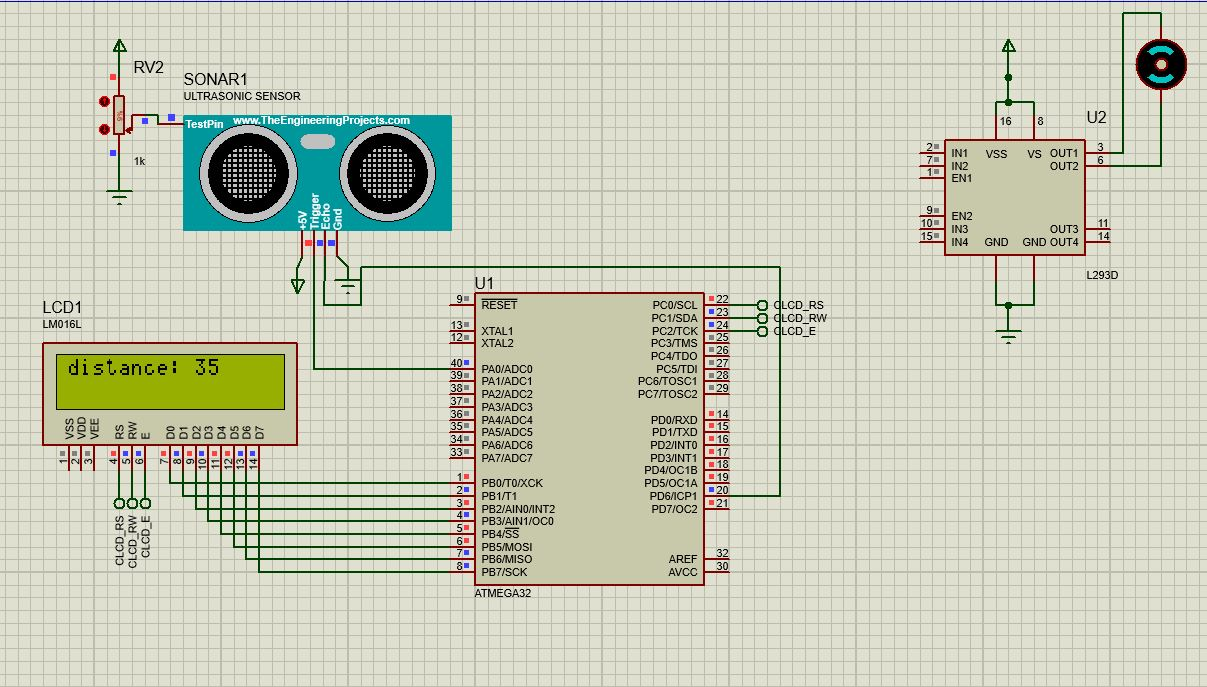
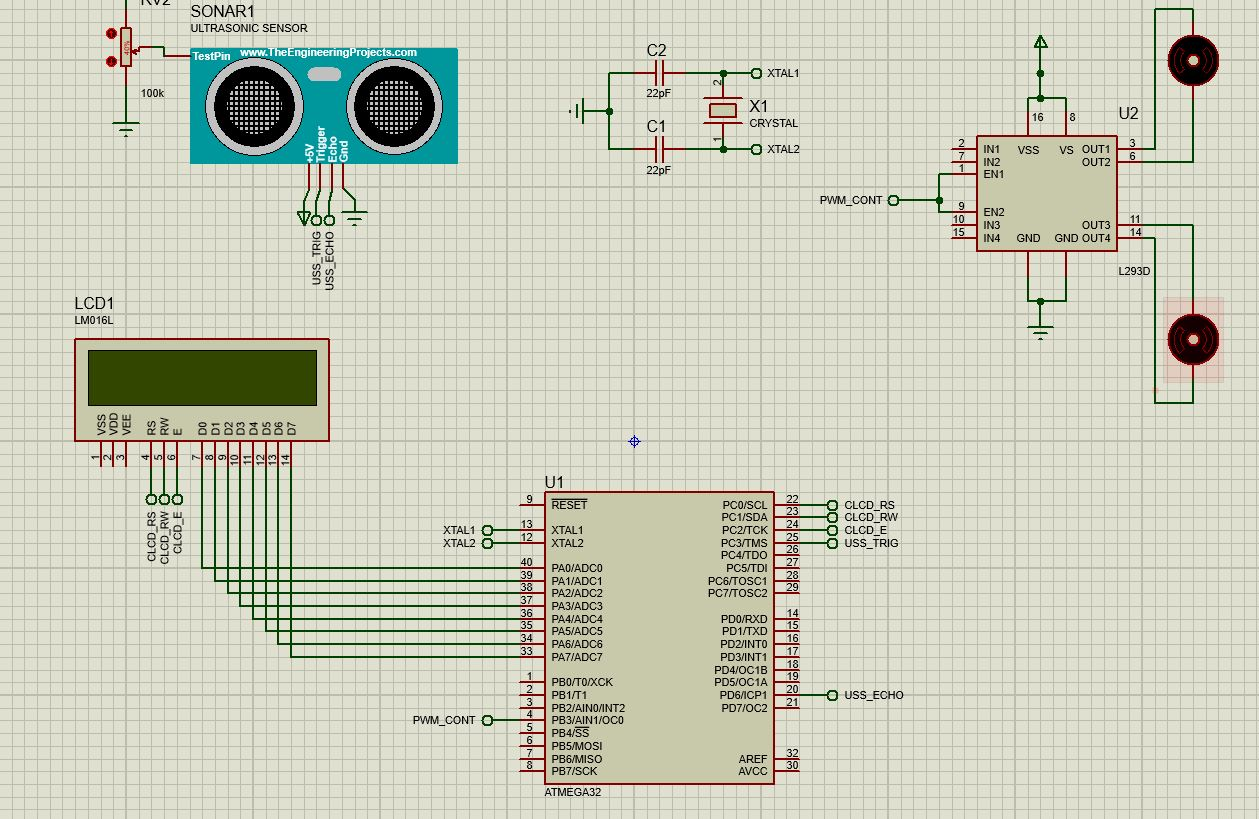
made a liberary for USS

diff --git a/HAL/USS/USS_prog.c b/HAL/USS/USS_prog.c
@@ -1,0 +1,114 @@
+#include "../../UTIL/BIT_MATH.h"
+#include "../../UTIL/STD_TYPES.h"
+#include "../../UTIL/ERR_TYPE.h"
+#include "../../MCAL/DIO_interface.h"
+#include <util/delay.h>
+#include "../../MCAL/INTERRUPT/GIE_interface.h"
+#include "../../MCAL/TIMER/TIMER_interface.h"
+#include "../../MCAL/TIMER/TIMER_reg.h"
+
+#include "USS_private.h"
+#include "USS_config.h"
+#include "USS_interface.h"
+
+static uint16 volatile TIMER1_OVER_FLOW = 0;
+
+
+
+void USS_voidInit(void){
+	GIE_voidEnableGlobal(); //  enable global intterupt
+	TIMEROvf_u8Enable(TIMER1); // enable over flow interrupt for timer 1
+	TCCR1A = 0; // normal counter no compare or PWM
+}
+
+
+void setICP_RisingEdge(){
+	/* wait for rising edge on USS_ECHO pin (input capture pin ICP1)*/
+	SET_BIT(TCCR1B, TCCR1B_ICES1); /* set capture on rising edge */
+	SET_BIT(TCCR1B, TCCR1B_CS10); /* start timer with no prescaler */
+}
+
+
+void setICP_FallingEdge(){
+	CLR_BIT(TCCR1B, TCCR1B_ICES1); // Capture on falling edge
+	SET_BIT(TCCR1B, TCCR1B_CS10); // start count no prescaler
+}
+
+void stopTimer1(){
+	CLR_BIT(TCCR1B, TCCR1B_CS10);
+}
+
+void Clear_Timer1Flags(){
+	/* clear flags */
+	SET_BIT(TIFR, TIFR_ICF1); /* Clear ICP flag (Input Capture flag) */
+	SET_BIT(TIFR, TIFR_TOV1); /* Clear Timer Overflow flag */
+}
+
+
+uint32 calcuteDistance(){
+	/*
+		this calculation is based on the used crystal oscillator
+		which is 16 MHZ
+		 distance in cm = 17150 * TIMER
+		 = 17150 x (TIMER value) x 0.0625 x 10^-6 cm
+		 = (TIMER value) * (0.343 / 320)
+		 = 1/923.94
+
+		 trigger pin DIO_u8_PORTA
+		 */
+
+	/* current count */
+	uint32 count  = ICR1L;
+	count = count | ICR1H << 8;
+
+	count += TIMER1_MAX_COUNT * TIMER1_OVER_FLOW;
+
+	return (uint32)((float32)count / 923.94);
+}
+
+
+uint32 USS_u32GetDistance(void){
+
+	/*
+	 * make sure that global interrupt is enabled
+		 timer 1 over flow is enabled
+		 register TCCR1A set as normal operation i.e. TCCR1A = 0;
+	 * */
+
+	/* send 10us pulse to trigger pin */
+	DIO_u8SetPinValue(USS_u8_TRIGGER_PORT, USS_u8_TRIGGER_PIN, DIO_u8_PIN_HIGH);
+	_delay_us(10);
+	DIO_u8SetPinValue(USS_u8_TRIGGER_PORT, USS_u8_TRIGGER_PIN, DIO_u8_PIN_LOW);
+
+	TCNT1H = 0;	/* Clear Timer1 counter */
+	TCNT1L = 0;
+
+	setICP_RisingEdge();/* set capture on rising edge and start timer */
+	Clear_Timer1Flags(); /* clear TIMER1 ovf and ICP flag from TIFR*/
+
+	/* when ICP1 receives a rising edge TIFR_ICF1 in TIFR will get triggered*/
+	while ((TIFR & (1 << TIFR_ICF1)) == 0);/* wait for rising edge */
+
+	TCNT1H = 0;	/* Clear Timer1 counter */
+	TCNT1L = 0;
+
+	setICP_FallingEdge(); /* set capture on falling edge and start timer */
+	Clear_Timer1Flags(); /* clear TIMER1 ovf and ICP flag from TIFR*/
+	TIMER1_OVER_FLOW = 0;
+
+	while ((TIFR & (1 << TIFR_ICF1)) == 0);/* Wait for falling edge */
+
+	return calcuteDistance();
+}
+
+
+void __vector_9(void) __attribute__((signal));
+
+void __vector_9(void)
+{
+	TIMER1_OVER_FLOW++;
+}
+
+
+
+

diff --git a/main.c b/main.c
@@ -8,78 +8,21 @@
 #include <util/delay.h>
 #include "MCAL/INTERRUPT/GIE_interface.h"
 #include "HAL/CLCD/CLCD_interface.h"
+#include "HAL/USS/USS_interface.h"
 
 uint16 volatile time_overflow = 0;
-
-
-
-void __vector_9(void) __attribute__((signal));
-
-void __vector_9(void)
-{
-	time_overflow++;
-}
 
 
 int main(){
 	PORT_voidInit();
 	CLCD_voidInit();
-
-	//CLCD_voidClearDisplay();
-
-	// distance in cm = 17150 * TIMER
-	// = 17150 x (TIMER value) x 0.0625 x 10^-6 cm
-	// = (TIMER value) * (0.343 / 320)
-	// = 1/923.94
-
-	// trigger pin DIO_u8_PORTA
-
-	GIE_voidEnableGlobal(); //  enable global intterupt
-	TIMEROvf_u8Enable(TIMER1); // enable over flow interrupt for timer 1
-	TCCR1A = 0; /* Set all bit to zero Normal operation */
-
-
-	while(1)
-	{
-
-		// send 10us puls ti trigger pin
-		DIO_u8SetPinValue(DIO_u8_PORTA, DIO_u8_PIN0, DIO_u8_PIN_HIGH);
-		_delay_us(10);
-		DIO_u8SetPinValue(DIO_u8_PORTA, DIO_u8_PIN0, DIO_u8_PIN_LOW);
-
-		TCNT1H = 0;	/* Clear Timer counter */
-		TCNT1L = 0;
-
-		SET_BIT(TCCR1B,TCCR1B_ICES1); // capture on rising edge
-		SET_BIT(TCCR1B, TCCR1B_CS10); // start cont no prescaler
-
-		SET_BIT(TIFR, TIFR_ICF1);/* Clear ICP flag (Input Capture flag) */
-		SET_BIT(TIFR, TIFR_TOV1);/* Clear Timer Overflow flag */
-
-		while ((TIFR & (1 << TIFR_ICF1)) == 0);// wait for rising edge
-		TCNT1H = 0;	/* Clear Timer counter */
-		TCNT1L = 0;
-		CLR_BIT(TCCR1B, TCCR1B_ICES1); // Capture on falling edge
-		SET_BIT(TCCR1B, TCCR1B_CS10); // start count no prescaler
-
-		SET_BIT(TIFR, TIFR_ICF1);/* Clear ICP flag (Input Capture flag) */
-		SET_BIT(TIFR, TIFR_TOV1);/* Clear Timer Overflow flag */
-
-		time_overflow = 0;
-
-		while ((TIFR & (1 << TIFR_ICF1)) == 0);/* Wait for falling edge */
-		uint32 count  = ICR1L;
-		count = count | ICR1H << 8;
-		count += 65535 * time_overflow;
-
-		float32 distance = (float32)count / 923.94;
+	USS_voidInit();
+	while(1){
+		uint32 distance = USS_u32GetDistance();
 		CLCD_sendString("distance: ");
 		CLCD_sendNumebr((uint32)distance);
 		_delay_ms(200);
 		CLCD_voidClearDisplay();
-
-
-
 	}
 
 	return 0;

diff --git a/MCAL/PWM/PWM_prog.c b/MCAL/PWM/PWM_prog.c
@@ -6,6 +6,7 @@
 
 
 void PWM0_VoidInit(void){
+	// OC0
 	// fast PWM mode
 		SET_BIT(TCCR0,TCCR0_WGM00);
 		SET_BIT(TCCR0,TCCR0_WGM01);
@@ -20,5 +21,26 @@ void PWM0_VoidInit(void){
 void PWM0_VoidSetDutyCycle(uint8 Copy_u8DutyCycle){
 	// on time
 	OCR0 = 255 - ((float32)Copy_u8DutyCycle / 100.0f) * 255.0f;
+}
+
+
+void PWM1_VoidInit(void){
+	// OC1A
+
+		SET_BIT(TCCR1A,TCCR1A_WGM11);
+		SET_BIT(TCCR1A,TCCR1A_COM1A1);
+		SET_BIT(TCCR1A,TCCR1A_COM1B1);
+	// inverted PWM mode
+		SET_BIT(TCCR1B, TCCR1B_WGM12);
+		SET_BIT(TCCR1B, TCCR1B_WGM13);
+	// no prescale
+		SET_BIT(TCCR1B, TCCR1B_CS10);
+}
+
+void PWM0_VoidSetDutyCycle(uint8 Copy_u8DutyCycle){
+	// on time
+	uint16 dutyCycle = 65536 - ((float32)Copy_u8DutyCycle / 100.0f) * 65536.0f;
+	OCR1AL = dutyCycle & 0xff;
+	OCR1AH = (dutyCycle >> 8) & 0xff;
 }
 

diff --git a/MCAL/PORT_config.h b/MCAL/PORT_config.h
@@ -5,13 +5,13 @@
  *	 	 	 	 	 	  Input -> 0*/
 
 #define PORTA_PIN0_DIR	1
-#define PORTA_PIN1_DIR	0
-#define PORTA_PIN2_DIR	0
-#define PORTA_PIN3_DIR	0
-#define PORTA_PIN4_DIR	0
-#define PORTA_PIN5_DIR	0
-#define PORTA_PIN6_DIR	0
-#define PORTA_PIN7_DIR	0
+#define PORTA_PIN1_DIR	1
+#define PORTA_PIN2_DIR	1
+#define PORTA_PIN3_DIR	1
+#define PORTA_PIN4_DIR	1
+#define PORTA_PIN5_DIR	1
+#define PORTA_PIN6_DIR	1
+#define PORTA_PIN7_DIR	1
 
 #define PORTB_PIN0_DIR	1
 #define PORTB_PIN1_DIR	1
@@ -25,7 +25,7 @@
 #define PORTC_PIN0_DIR	1
 #define PORTC_PIN1_DIR	1
 #define PORTC_PIN2_DIR	1
-#define PORTC_PIN3_DIR	0
+#define PORTC_PIN3_DIR	1
 #define PORTC_PIN4_DIR	0
 #define PORTC_PIN5_DIR	0
 #define PORTC_PIN6_DIR	0

diff --git a/MCAL/TIMER/TIMER_prog.c b/MCAL/TIMER/TIMER_prog.c
@@ -49,6 +49,26 @@ uint8 TIMEROvf_u8Enable(uint8 Copy_u8TimerNumber){
 }
 
 
+uint8 TIMEROvf_u8Disable(uint8 Copy_u8TimerNumber){
+	uint8 Local_u8ErrorState = OK;
+	switch(Copy_u8TimerNumber){
+	case TIMER0:
+		CLR_BIT(TIMSK, TIMSK_TOIE0);
+		break;
+	case TIMER1:
+		CLR_BIT(TIMSK, TIMSK_TOIE1);
+		break;
+	case TIMER2:
+		CLR_BIT(TIMSK, TIMSK_TOIE2);
+		break;
+	default:
+		Local_u8ErrorState = NOK;
+		break;
+	}
+	return Local_u8ErrorState;
+
+}
+
 
 
 uint8 TIMER0ovf_u8SetCallBack(void(*Copy_pvCallBackFunc)(void))

diff --git a/HAL/CLCD/CLCD_config.h b/HAL/CLCD/CLCD_config.h
@@ -1,7 +1,7 @@
 #ifndef CLCD_CONFIG_H_
 #define CLCD_CONFIG_H_
 
-#define CLCD_u8_DATA_PORT		DIO_u8_PORTB
+#define CLCD_u8_DATA_PORT		DIO_u8_PORTA
 /*Choose your connection mode , options : 1- EIGHT_BIT
  * 										  2- FOUR_BIT*/
 #define CLCD_u8_MODE			EIGHT_BIT

diff --git a/MCAL/TIMER/TIMER_interface.h b/MCAL/TIMER/TIMER_interface.h
@@ -9,7 +9,9 @@
 
 
 uint8 TIMEROvf_u8Enable(uint8 Copy_u8TimerNumber);
+uint8 TIMEROvf_u8Disable(uint8 Copy_u8TimerNumber);
 uint8 TIMER0ovf_u8SetCallBack(void(*Copy_pvCallBackFunc)(void));
 void Timer0_voidSetTimerValue(uint8 Copy_u8Value);
+
 
 #endif

diff --git a/HAL/USS/USS_private.h b/HAL/USS/USS_private.h
@@ -1,0 +1,13 @@
+#ifndef USS_PRIVATE_H_
+#define USS_PRIVATE_H_
+
+#define TIMER1_MAX_COUNT 65535
+
+
+void setICP_RisingEdge(void);
+void setICP_FallingEdge();
+void stopTimer1();
+void Clear_Timer1Flags();
+uint32 calcuteDistance();
+
+#endif

diff --git a/MCAL/TIMER/TIMER_reg.h b/MCAL/TIMER/TIMER_reg.h
@@ -53,6 +53,10 @@
 #define TCNT1L		 *((volatile uint8*)0x4C)
 
 #define OCR0		 *((volatile uint8*)0x5c)
+#define OCR1AH		 *((volatile uint8*)0x4B)
+#define OCR1AL		 *((volatile uint8*)0x5A)
+
+
 
 #define TIMSK		 *((volatile uint8*)0x59)
 

diff --git a/HAL/USS/USS_config.h b/HAL/USS/USS_config.h
@@ -1,0 +1,10 @@
+#ifndef USS_CONFIG_H_
+#define USS_CONFIG_H_
+
+#define USS_u8_TRIGGER_PORT		DIO_u8_PORTC
+#define USS_u8_TRIGGER_PIN		DIO_u8_PIN3
+
+// the echo pin will be PD6
+//as it's the only input capture pin in atmega32
+
+#endif

diff --git a/HAL/USS/USS_interface.h b/HAL/USS/USS_interface.h
@@ -1,0 +1,7 @@
+#ifndef USS_INTERFACE_H_
+#define USS_INTERFACE_H_
+
+void USS_voidInit(void);
+uint32 USS_u32GetDistance(void);
+
+#endif
